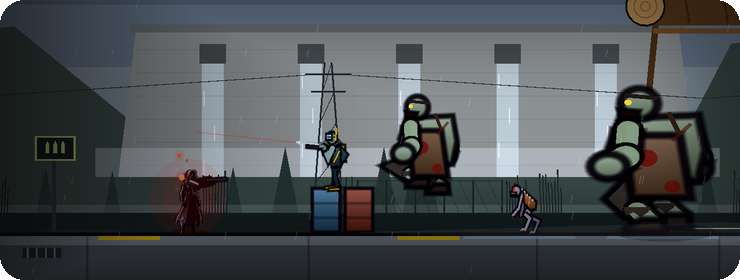
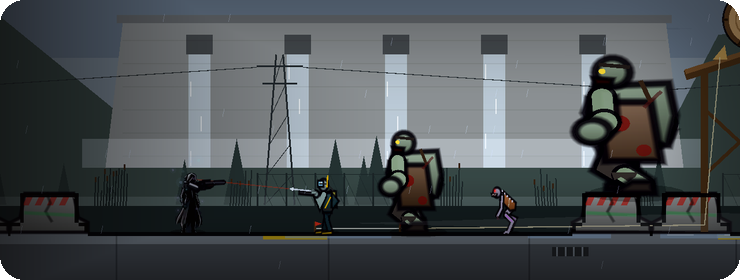
Log trap redesign: round log on a tower ramp, falls off and rolls at you (end-on, spinning)
Claude-Session: https://claude.ai/code/session_018NF2YuBpDSSB8xJX7LVfrn

diff --git a/shooter_game/DEV_GUIDE.md b/shooter_game/DEV_GUIDE.md
@@ -404,8 +404,9 @@ and `draw_ragdoll(ci, rag)` to keep its own silhouette as a soft corpse (STILTER
 ## Stage 22 - "THE DAM" ("THEY LEARNED TO SET TRAPS") - grey rainy morning at a giant dam, region 3 level 4
 - levels/stage_22.gd + effects/s22_decor.gd: overcast sky, dam wall with spillway waterfalls, power pylons, pines, reeds + fence. World: wet concrete DamGround,
   steel CATWALKS at TIER 140 (harpooners stand there), Obstacle "barrier" / "drums" / "timber" (tall cover). DamFX: drizzle + spray mist.
-- Trap: LogTrap (LOG_TRAPS positions): a visible tripwire (red flags) under an A-frame holding a log. Touch the wire -> creak (DELAY) -> log falls (DROP_DMG 2)
-  -> rolls toward you (ROLL_DMG, ROLL_T) -> stops and becomes solid cover. Kills zombies it hits (lure them under it).
+- Trap: LogTrap (LOG_TRAPS positions): a visible tripwire (red flags) with a rope to a wooden tower AHEAD (300 px) holding a round log on a ramp (chock).
+  Touch the wire -> chock flies out -> the log rolls down the ramp, falls + bounces (DROP_DMG) -> rolls back at you, spinning (ROLL_DMG, ROLL_V, ROLL_DIST) - jump over it.
+  Drawn end-on (round cross-section with bark + rings) as a rolling log looks in side view. Stops at an obstacle / after ROLL_DIST and stays as cover. Kills zombies in its path.
 - GOLIATH (enemies/types/goliath.gd): huge butcher. Falls apart in order by HP (LOSE_AT): front arm, back arm, back leg (hops), front leg (crawls), head on death.
   Tactics change: 2 arms = SMASH (windup + ground slam), 1 arm = faster swipe, no arms = CHARGE (headbutt rush, then STUN), no legs = crawl + bite.
   Boss THE BUTCHER (stage 22 boss). Limbs fly as Limb nodes.
